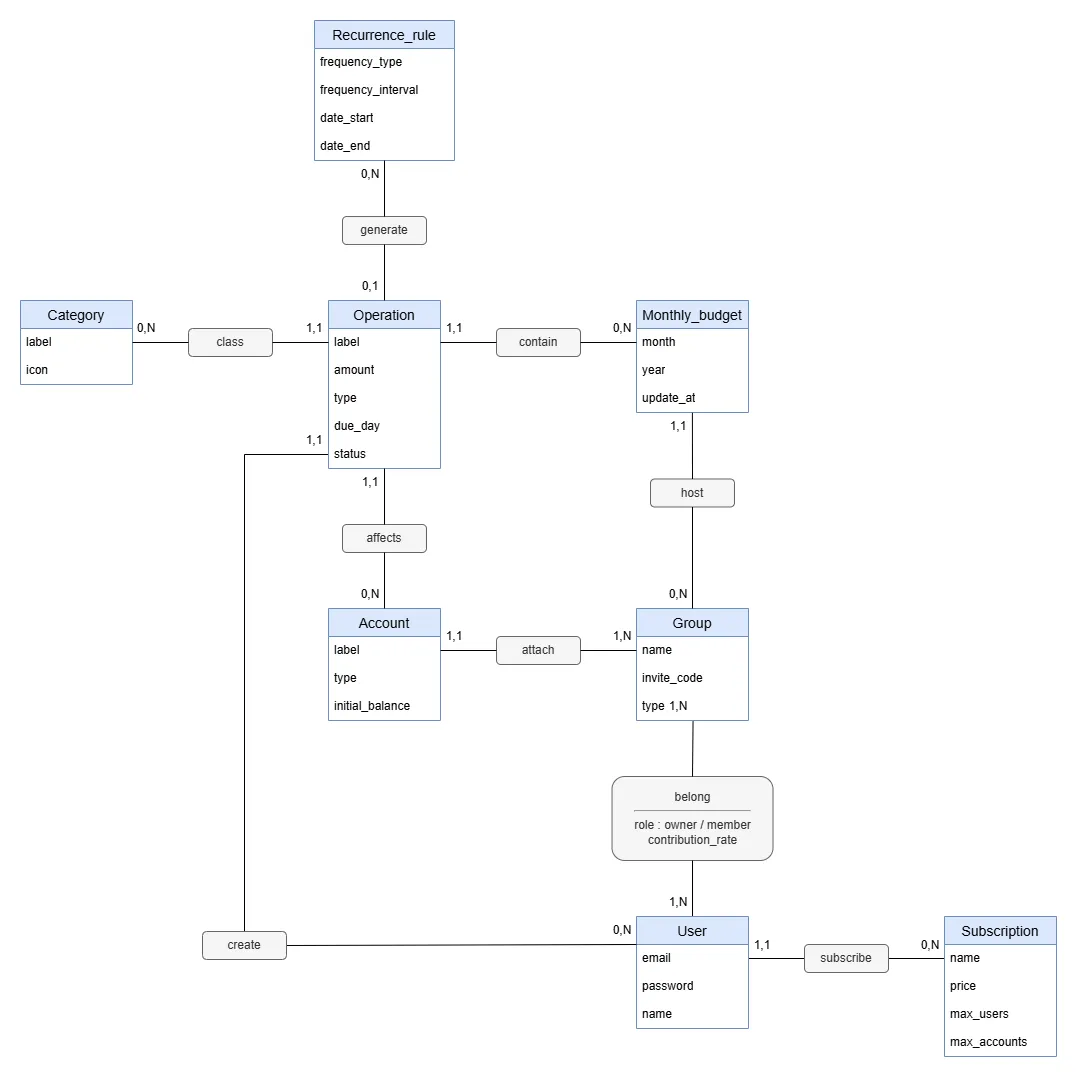
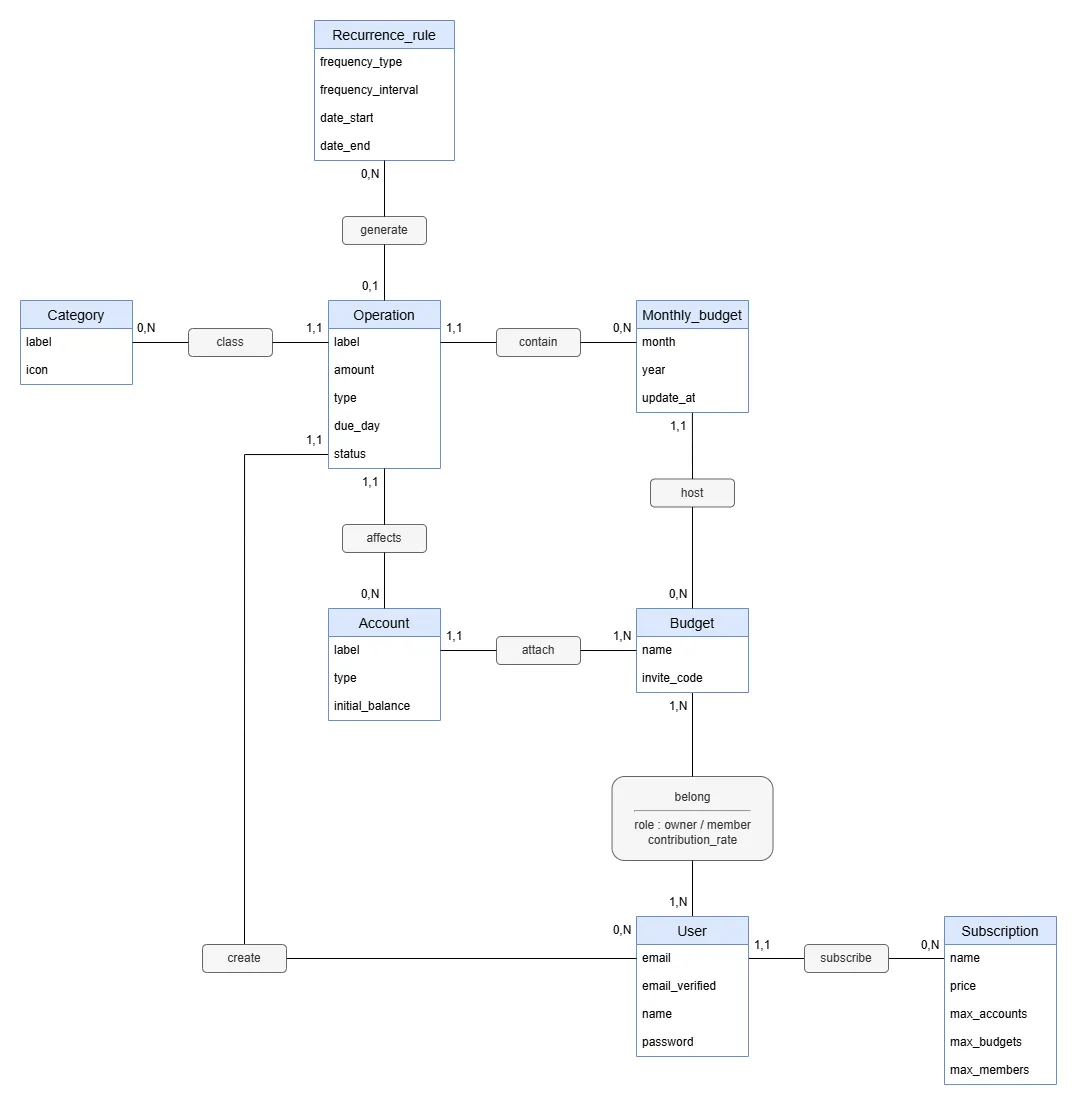
docs(bdd): replace group entity with budget, update schema

diff --git a/docs/conventions/06-database.md b/docs/conventions/06-database.md
@@ -17,14 +17,18 @@
 -- Bon
 user
 operation
-budget_category
+budget
+account
 recurrence_rule
+monthly_budget
+budget_member
 
 -- Mauvais
 Users
 operations
 budgetCategory
 tbl_transaction
+group
 ```
 
 ### Colonnes
@@ -67,7 +71,7 @@ Le projet utilise **deux stratégies** de clé primaire selon le type de table :
 
 | Stratégie         | Type PostgreSQL                  | Type Java     | Usage                                                                                  |
 | ----------------- | -------------------------------- | ------------- | -------------------------------------------------------------------------------------- |
-| **UUID**          | `UUID DEFAULT gen_random_uuid()` | `UUID`        | Entités métier principales (`user`, `operation`, `account`, `group`, `monthly_budget`) |
+| **UUID**          | `UUID DEFAULT gen_random_uuid()` | `UUID`        | Entités métier principales (`user`, `operation`, `account`, `budget`, `monthly_budget`) |
 | **SERIAL**        | `SERIAL PRIMARY KEY`             | `Integer`     | Tables de référence/lookup (`subscription`, `category`, `recurrence_rule`)             |
 | **Clé composite** | Combinaison de FK                | Clé composite | Tables de jointure (`user_group`)                                                      |
 
@@ -98,10 +102,13 @@ Convention de nommage : `fk_<table_source>_<table_cible>`
 -- Constraint naming
 CONSTRAINT fk_operation_user FOREIGN KEY (user_id) REFERENCES "user"(id)
 CONSTRAINT fk_operation_monthly_budget FOREIGN KEY (monthly_budget_id) REFERENCES monthly_budget(id)
-CONSTRAINT fk_account_group FOREIGN KEY (group_id) REFERENCES "group"(id)
+CONSTRAINT fk_account_user FOREIGN KEY (user_id) REFERENCES "user"(id)
+CONSTRAINT fk_monthly_budget_budget FOREIGN KEY (budget_id) REFERENCES budget(id)
+CONSTRAINT fk_budget_member_user FOREIGN KEY (user_id) REFERENCES "user"(id)
+CONSTRAINT fk_budget_member_budget FOREIGN KEY (budget_id) REFERENCES budget(id)
 ```
 
-> **Note** : `user` et `group` sont des mots réservés en PostgreSQL. Les entourer de guillemets doubles (`"user"`, `"group"`) dans les requêtes SQL.
+> **Note** : `user` est un mot réservé en PostgreSQL. L'entourer de guillemets doubles (`"user"`) dans les requêtes SQL.
 
 ### Index
 
@@ -110,7 +117,12 @@ Convention de nommage : `idx_<table>_<colonne(s)>`
 ```sql
 CREATE INDEX idx_operation_user_id ON operation(user_id);
 CREATE INDEX idx_operation_monthly_budget_id ON operation(monthly_budget_id);
+CREATE INDEX idx_operation_budget_id ON operation(budget_id);
+CREATE INDEX idx_account_user_id ON account(user_id);
+CREATE INDEX idx_monthly_budget_budget_id ON monthly_budget(budget_id);
+CREATE INDEX idx_budget_member_user_id ON budget_member(user_id);
 CREATE UNIQUE INDEX idx_user_email ON "user"(email);
+CREATE UNIQUE INDEX idx_budget_invite_code ON budget(invite_code) WHERE invite_code IS NOT NULL;
 ```
 
 ### Contraintes
@@ -154,11 +166,15 @@ initial_balance DECIMAL(12, 2) NOT NULL DEFAULT 0
 
 ```
 backend/src/main/resources/db/migration/
-├── V1__create_user_table.sql
-├── V2__create_group_table.sql
+├── V1__create_subscription_table.sql
+├── V2__create_user_table.sql
 ├── V3__create_account_table.sql
-├── V4__create_operation_table.sql
-└── V5__create_category_table.sql
+├── V4__create_budget_table.sql
+├── V5__create_budget_member_table.sql
+├── V6__create_category_table.sql
+├── V7__create_recurrence_rule_table.sql
+├── V8__create_monthly_budget_table.sql
+└── V9__create_operation_table.sql
 ```
 
 ### Nommage des fichiers
@@ -180,12 +196,13 @@ Format : `V<version>__<description_snake_case>.sql`
 ### Exemple de migration
 
 ```sql
--- V1__create_user_table.sql
+-- V2__create_user_table.sql
 CREATE TABLE "user" (
     id                UUID            PRIMARY KEY DEFAULT gen_random_uuid(),
     email             VARCHAR(255)    NOT NULL,
     password          VARCHAR(255)    NOT NULL,
     name              VARCHAR(100)    NOT NULL,
+    email_verified    BOOLEAN         NOT NULL DEFAULT FALSE,
     created_at        TIMESTAMP       NOT NULL DEFAULT NOW(),
     updated_at        TIMESTAMP       NOT NULL DEFAULT NOW(),
     subscription_id   INTEGER         NOT NULL REFERENCES subscription(id),
@@ -194,6 +211,29 @@ CREATE TABLE "user" (
 );
 
 CREATE INDEX idx_user_email ON "user"(email);
+
+-- V4__create_budget_table.sql
+CREATE TABLE budget (
+    id            UUID            PRIMARY KEY DEFAULT gen_random_uuid(),
+    name          VARCHAR(100)    NOT NULL,
+    type          VARCHAR(10)     NOT NULL CHECK (type IN ('solo', 'shared')),
+    invite_code   VARCHAR(20)     UNIQUE,
+    created_at    TIMESTAMP       NOT NULL DEFAULT NOW(),
+    updated_at    TIMESTAMP       NOT NULL DEFAULT NOW()
+);
+-- Le propriétaire est identifié via budget_member WHERE role = 'owner'
+
+-- V5__create_budget_member_table.sql
+CREATE TABLE budget_member (
+    user_id             UUID            NOT NULL REFERENCES "user"(id) ON DELETE CASCADE,
+    budget_id           UUID            NOT NULL REFERENCES budget(id) ON DELETE CASCADE,
+    role                VARCHAR(10)     NOT NULL CHECK (role IN ('owner', 'member')),
+    contribution_rate   DECIMAL(5, 2)   NOT NULL DEFAULT 50.00
+        CHECK (contribution_rate BETWEEN 0 AND 100),
+    joined_at           TIMESTAMP       NOT NULL DEFAULT NOW(),
+
+    PRIMARY KEY (user_id, budget_id)
+);
 ```
 
 ## Relations

diff --git a/docs/diagrams/README.md b/docs/diagrams/README.md
@@ -14,10 +14,20 @@ Ce dossier contient les diagrammes de modélisation du projet Budget Management.
 ## Entités principales
 
 - **User** : utilisateur de l'application
-- **Subscription** : plan d'abonnement (limites de groupes, comptes, membres)
-- **Group** : groupe de budget (solo, duo, multi)
-- **Account** : compte bancaire rattaché à un groupe
-- **Monthly_budget** : budget mensuel
-- **Operation** : opération financière (revenu/dépense)
-- **Category** : catégorie d'opération
-- **Recurrence_rule** : règle de récurrence pour les opérations automatiques
+- **Subscription** : plan d'abonnement Free ou Premium (limites comptes, budgets, membres)
+- **Account** : compte bancaire virtuel appartenant à un utilisateur
+- **Budget** : enveloppe de dépenses, solo ou partagée (remplace l'ancien "Group")
+- **Budget_member** : table de jointure User ↔ Budget (rôle owner/member, taux de contribution) — source de vérité unique pour identifier le propriétaire d'un budget
+- **Monthly_budget** : instantiation mensuelle d'un budget (mois + année)
+- **Operation** : mouvement financier (revenu ou dépense) attaché à un compte ou un budget
+- **Category** : catégorie d'opération (label + icône)
+- **Recurrence_rule** : règle de répétition automatique d'une opération
+
+## Concept clé
+
+```
+Argent de poche = Revenus - Charges récurrentes (compte) - Part budget partagé
+Part budget partagé = Total opérations budget ÷ nombre de membres (pondéré par contribution_rate)
+```
+
+> Les diagrammes sont à régénérer dans l'outil de modélisation (draw.io ou équivalent) à chaque évolution majeure du schéma.
